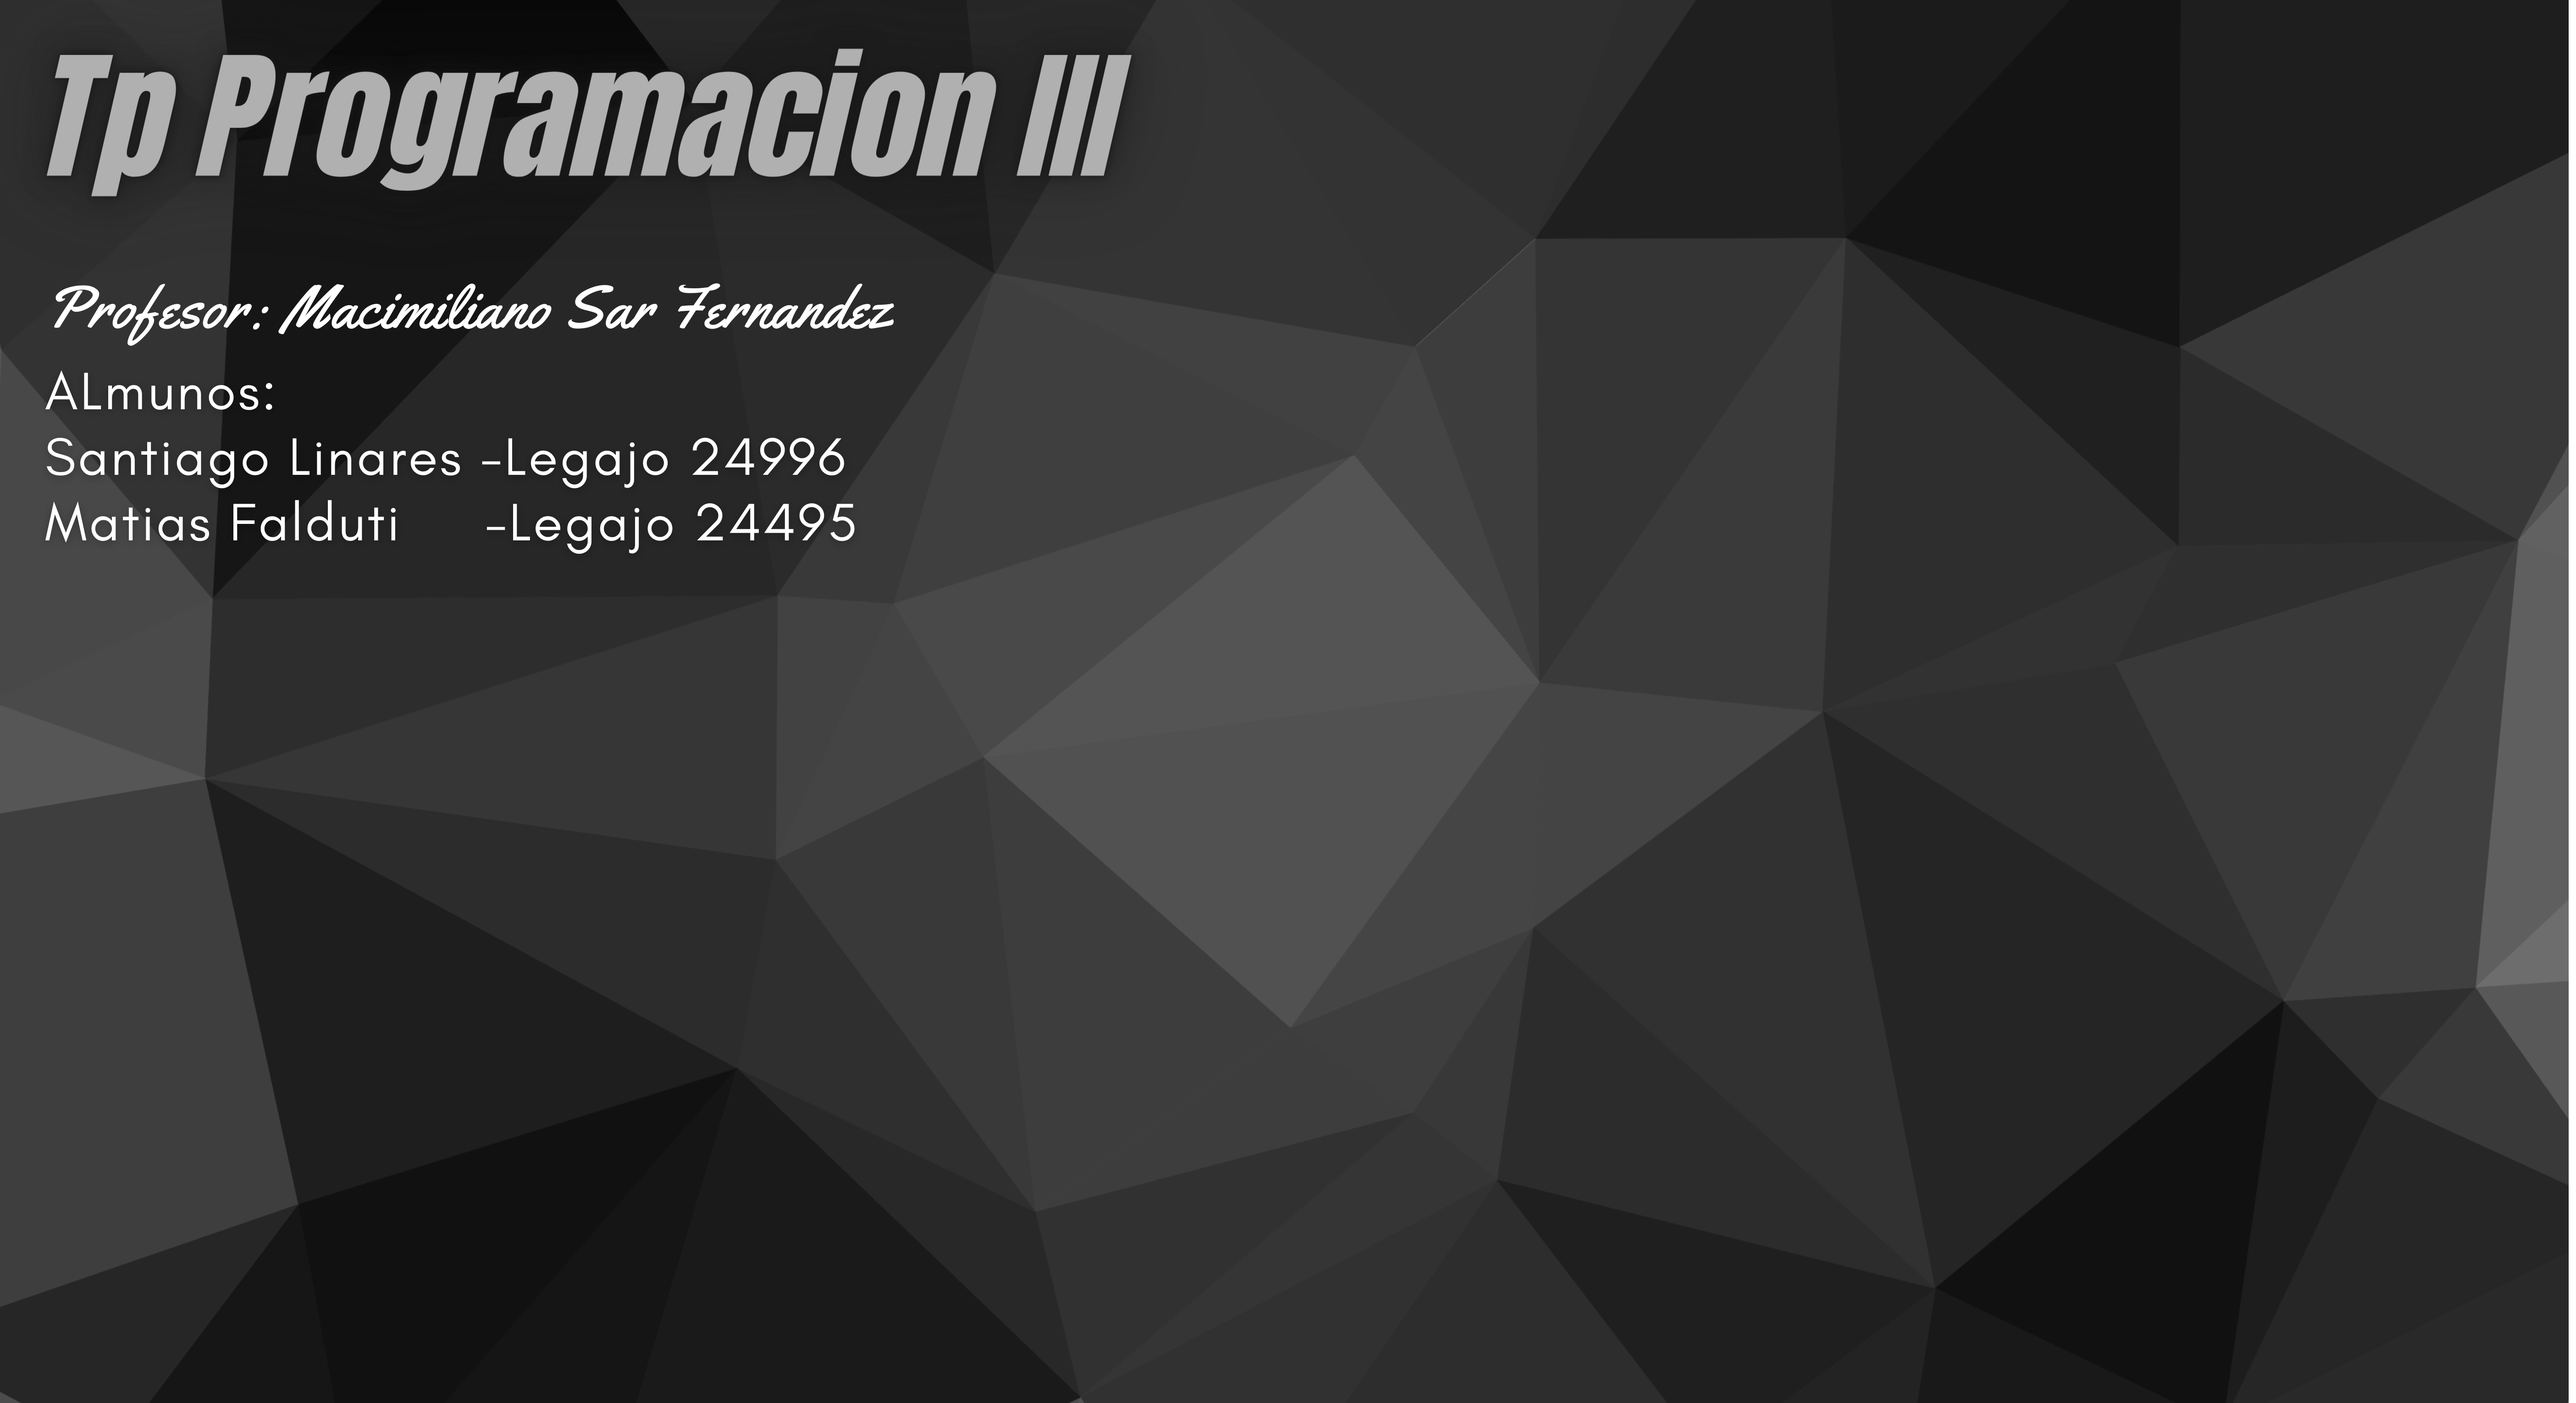
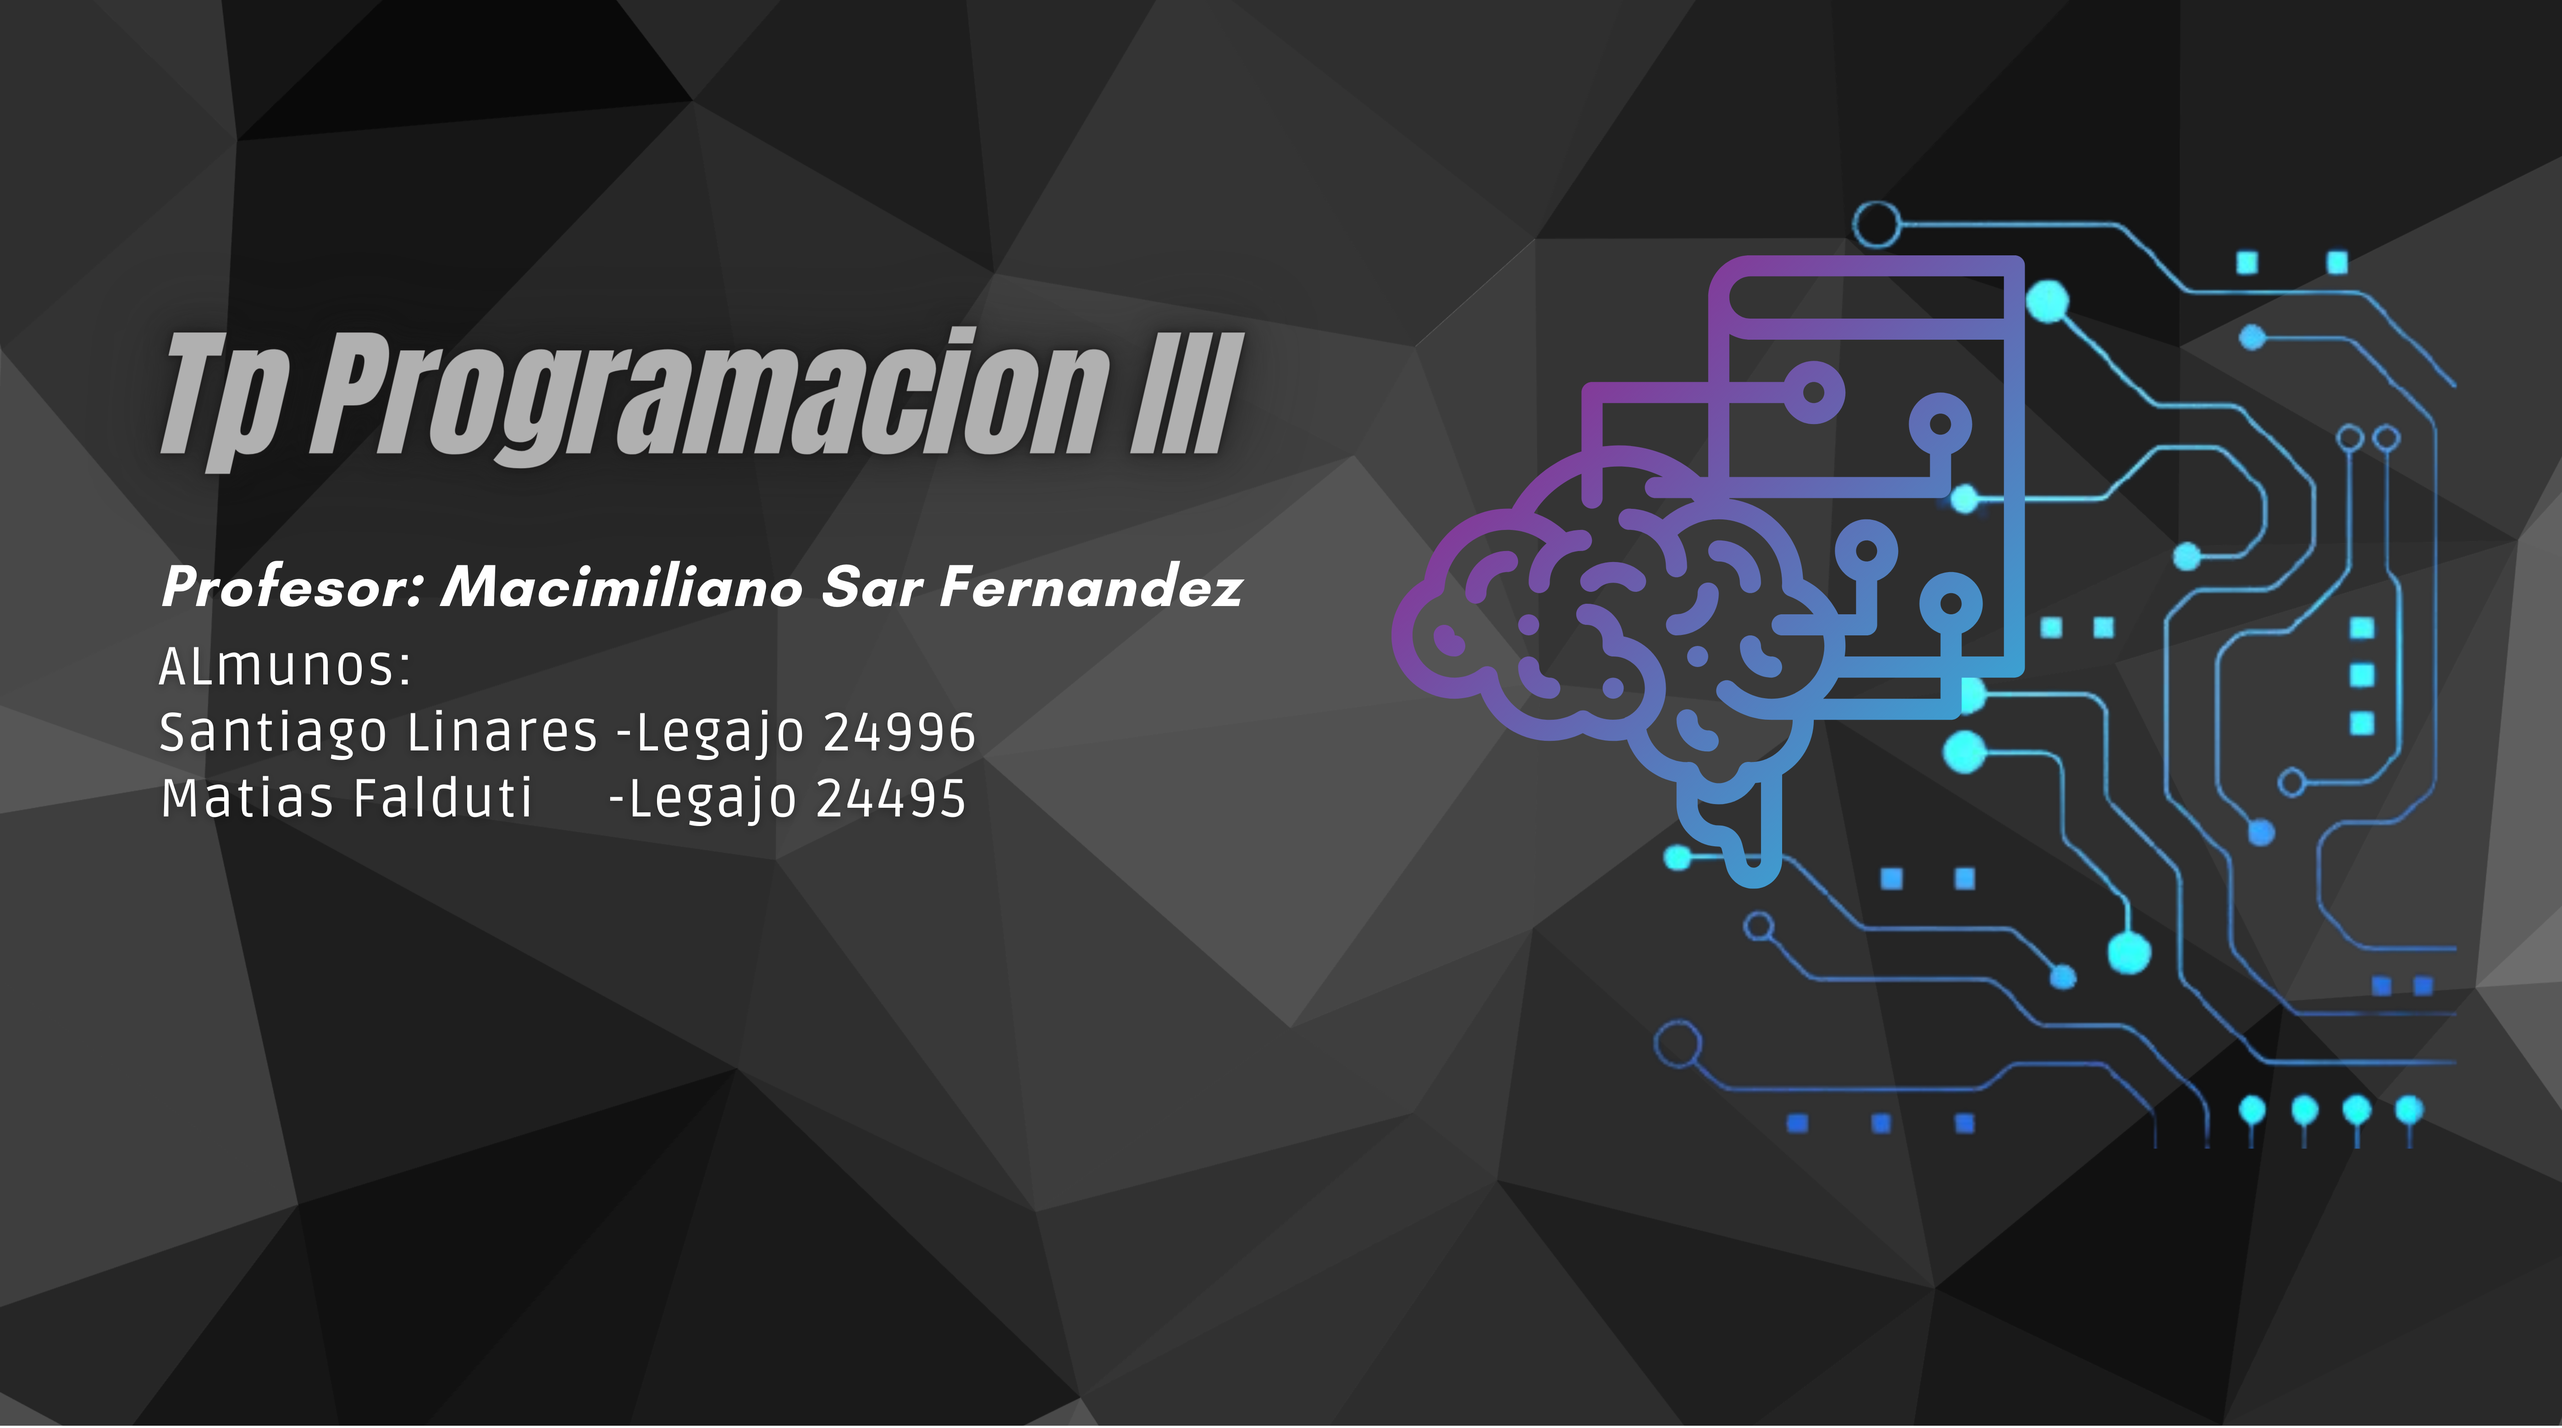
Inicio2

diff --git a/TPWIinForm_Linares_Falduri/Inicio.Designer.cs b/TPWIinForm_Linares_Falduri/Inicio.Designer.cs
@@ -28,17 +28,73 @@
         /// </summary>
         private void InitializeComponent()
         {
+            this.components = new System.ComponentModel.Container();
             System.ComponentModel.ComponentResourceManager resources = new System.ComponentModel.ComponentResourceManager(typeof(Inicio));
+            this.label1 = new System.Windows.Forms.Label();
+            this.TextBoxNombre = new System.Windows.Forms.TextBox();
+            this.BotonContinuar = new System.Windows.Forms.Button();
+            this.BotonSalir = new System.Windows.Forms.Button();
+            this.errorProvider1 = new System.Windows.Forms.ErrorProvider(this.components);
             this.pictureBox1 = new System.Windows.Forms.PictureBox();
+            ((System.ComponentModel.ISupportInitialize)(this.errorProvider1)).BeginInit();
             ((System.ComponentModel.ISupportInitialize)(this.pictureBox1)).BeginInit();
             this.SuspendLayout();
             // 
+            // label1
+            // 
+            this.label1.AutoSize = true;
+            this.label1.BackColor = System.Drawing.SystemColors.ControlLightLight;
+            this.label1.Font = new System.Drawing.Font("Times New Roman", 12F, System.Drawing.FontStyle.Regular, System.Drawing.GraphicsUnit.Point, ((byte)(0)));
+            this.label1.ForeColor = System.Drawing.Color.Blue;
+            this.label1.Location = new System.Drawing.Point(66, 325);
+            this.label1.Name = "label1";
+            this.label1.Size = new System.Drawing.Size(80, 22);
+            this.label1.TabIndex = 1;
+            this.label1.Text = "Nombre:";
+            // 
+            // TextBoxNombre
+            // 
+            this.TextBoxNombre.AcceptsReturn = true;
+            this.TextBoxNombre.Font = new System.Drawing.Font("Times New Roman", 10.2F, System.Drawing.FontStyle.Regular, System.Drawing.GraphicsUnit.Point, ((byte)(0)));
+            this.TextBoxNombre.Location = new System.Drawing.Point(152, 320);
+            this.TextBoxNombre.Name = "TextBoxNombre";
+            this.TextBoxNombre.Size = new System.Drawing.Size(194, 27);
+            this.TextBoxNombre.TabIndex = 2;
+            this.TextBoxNombre.TextChanged += new System.EventHandler(this.TextBoxNombre_TextChanged);
+            // 
+            // BotonContinuar
+            // 
+            this.BotonContinuar.BackColor = System.Drawing.SystemColors.Highlight;
+            this.BotonContinuar.Location = new System.Drawing.Point(198, 353);
+            this.BotonContinuar.Name = "BotonContinuar";
+            this.BotonContinuar.Size = new System.Drawing.Size(148, 50);
+            this.BotonContinuar.TabIndex = 3;
+            this.BotonContinuar.Text = "Continuar";
+            this.BotonContinuar.UseVisualStyleBackColor = false;
+            this.BotonContinuar.Click += new System.EventHandler(this.BotonContinuar_Click);
+            // 
+            // BotonSalir
+            // 
+            this.BotonSalir.BackColor = System.Drawing.Color.IndianRed;
+            this.BotonSalir.Location = new System.Drawing.Point(724, 426);
+            this.BotonSalir.Name = "BotonSalir";
+            this.BotonSalir.Size = new System.Drawing.Size(106, 41);
+            this.BotonSalir.TabIndex = 4;
+            this.BotonSalir.Text = "Salir";
+            this.BotonSalir.UseVisualStyleBackColor = false;
+            this.BotonSalir.Click += new System.EventHandler(this.BotonSalir_Click);
+            // 
+            // errorProvider1
+            // 
+            this.errorProvider1.ContainerControl = this;
+            // 
             // pictureBox1
             // 
-            this.pictureBox1.Image = global::TPWIinForm_Linares_Falduri.Properties.Resources.Inicio;
+            this.pictureBox1.BackColor = System.Drawing.SystemColors.ButtonShadow;
+            this.pictureBox1.Image = global::TPWIinForm_Linares_Falduri.Properties.Resources._1;
             this.pictureBox1.Location = new System.Drawing.Point(-1, -2);
             this.pictureBox1.Name = "pictureBox1";
-            this.pictureBox1.Size = new System.Drawing.Size(590, 360);
+            this.pictureBox1.Size = new System.Drawing.Size(840, 498);
             this.pictureBox1.SizeMode = System.Windows.Forms.PictureBoxSizeMode.Zoom;
             this.pictureBox1.TabIndex = 0;
             this.pictureBox1.TabStop = false;
@@ -47,22 +103,35 @@
             // 
             this.AutoScaleDimensions = new System.Drawing.SizeF(8F, 16F);
             this.AutoScaleMode = System.Windows.Forms.AutoScaleMode.Font;
-            this.BackColor = System.Drawing.SystemColors.ActiveCaption;
-            this.ClientSize = new System.Drawing.Size(855, 354);
+            this.BackColor = System.Drawing.SystemColors.InactiveCaptionText;
+            this.ClientSize = new System.Drawing.Size(842, 495);
+            this.Controls.Add(this.BotonSalir);
+            this.Controls.Add(this.BotonContinuar);
+            this.Controls.Add(this.TextBoxNombre);
+            this.Controls.Add(this.label1);
             this.Controls.Add(this.pictureBox1);
-            this.ForeColor = System.Drawing.SystemColors.ActiveCaption;
+            this.ForeColor = System.Drawing.SystemColors.ActiveCaptionText;
+            this.FormBorderStyle = System.Windows.Forms.FormBorderStyle.FixedSingle;
             this.Icon = ((System.Drawing.Icon)(resources.GetObject("$this.Icon")));
+            this.MaximizeBox = false;
             this.Name = "Inicio";
             this.Text = "Inicio";
-            this.Load += new System.EventHandler(this.Form1_Load);
+            this.Load += new System.EventHandler(this.Inicio_Load);
+            ((System.ComponentModel.ISupportInitialize)(this.errorProvider1)).EndInit();
             ((System.ComponentModel.ISupportInitialize)(this.pictureBox1)).EndInit();
             this.ResumeLayout(false);
+            this.PerformLayout();
 
         }
 
         #endregion
 
         private System.Windows.Forms.PictureBox pictureBox1;
+        private System.Windows.Forms.Label label1;
+        private System.Windows.Forms.TextBox TextBoxNombre;
+        private System.Windows.Forms.Button BotonContinuar;
+        private System.Windows.Forms.Button BotonSalir;
+        private System.Windows.Forms.ErrorProvider errorProvider1;
     }
 }
 

diff --git a/TPWIinForm_Linares_Falduri/PaginaPrincipal.Designer.cs b/TPWIinForm_Linares_Falduri/PaginaPrincipal.Designer.cs
@@ -1,0 +1,65 @@
+namespace TPWIinForm_Linares_Falduri
+{
+    partial class PaginaPrincipal
+    {
+        /// <summary>
+        /// Required designer variable.
+        /// </summary>
+        private System.ComponentModel.IContainer components = null;
+
+        /// <summary>
+        /// Clean up any resources being used.
+        /// </summary>
+        /// <param name="disposing">true if managed resources should be disposed; otherwise, false.</param>
+        protected override void Dispose(bool disposing)
+        {
+            if (disposing && (components != null))
+            {
+                components.Dispose();
+            }
+            base.Dispose(disposing);
+        }
+
+        #region Windows Form Designer generated code
+
+        /// <summary>
+        /// Required method for Designer support - do not modify
+        /// the contents of this method with the code editor.
+        /// </summary>
+        private void InitializeComponent()
+        {
+            this.LevelSaludo = new System.Windows.Forms.Label();
+            this.SuspendLayout();
+            // 
+            // LevelSaludo
+            // 
+            this.LevelSaludo.AutoSize = true;
+            this.LevelSaludo.Font = new System.Drawing.Font("Times New Roman", 12F, System.Drawing.FontStyle.Regular, System.Drawing.GraphicsUnit.Point, ((byte)(0)));
+            this.LevelSaludo.Location = new System.Drawing.Point(69, 42);
+            this.LevelSaludo.Name = "LevelSaludo";
+            this.LevelSaludo.Size = new System.Drawing.Size(102, 22);
+            this.LevelSaludo.TabIndex = 0;
+            this.LevelSaludo.Text = "Bievenido, ";
+            // 
+            // PaginaPrincipal
+            // 
+            this.AutoScaleDimensions = new System.Drawing.SizeF(8F, 16F);
+            this.AutoScaleMode = System.Windows.Forms.AutoScaleMode.Font;
+            this.BackColor = System.Drawing.SystemColors.ActiveCaption;
+            this.ClientSize = new System.Drawing.Size(800, 450);
+            this.Controls.Add(this.LevelSaludo);
+            this.FormBorderStyle = System.Windows.Forms.FormBorderStyle.FixedSingle;
+            this.MaximizeBox = false;
+            this.Name = "PaginaPrincipal";
+            this.Text = "Pagina Principal";
+            this.Load += new System.EventHandler(this.PaginaPrincipal_Load);
+            this.ResumeLayout(false);
+            this.PerformLayout();
+
+        }
+
+        #endregion
+
+        private System.Windows.Forms.Label LevelSaludo;
+    }
+}

diff --git a/TPWIinForm_Linares_Falduri/Inicio.cs b/TPWIinForm_Linares_Falduri/Inicio.cs
@@ -17,9 +17,44 @@ namespace TPWIinForm_Linares_Falduri
             InitializeComponent();
         }
 
-        private void Form1_Load(object sender, EventArgs e)
+        private void Inicio_Load(object sender, EventArgs e)
         {
+            BotonContinuar.Enabled = false;
+        }
 
+        private void BotonSalir_Click(object sender, EventArgs e)
+        {
+            this.Close();   
+        }
+
+
+        private void ControlBotones()
+        {
+            if (TextBoxNombre.Text.Trim() != string.Empty && TextBoxNombre.Text.All(char.IsLetter))
+            {
+               BotonContinuar.Enabled = true;
+                errorProvider1.SetError(TextBoxNombre, "");
+            }
+            else
+            {
+                if (!(TextBoxNombre.Text.All(char.IsLetter)))
+                {
+                    errorProvider1.SetError(TextBoxNombre, "El nombre solo contiene letras");
+                }
+                else { errorProvider1.SetError(TextBoxNombre, "Debe introducir su nombre"); }
+            }
+            //btnSolicitarPrestamo.Enabled = false;
+            TextBoxNombre.Focus();
+        }
+        private void TextBoxNombre_TextChanged(object sender, EventArgs e)
+        {
+            ControlBotones();
+        }
+
+        private void BotonContinuar_Click(object sender, EventArgs e)
+        {
+            using (PaginaPrincipal VentanaPrincipal = new PaginaPrincipal(TextBoxNombre.Text))
+                VentanaPrincipal.ShowDialog();
         }
     }
 }

diff --git a/TPWIinForm_Linares_Falduri/Properties/Resources.Designer.cs b/TPWIinForm_Linares_Falduri/Properties/Resources.Designer.cs
@@ -63,6 +63,16 @@ namespace TPWIinForm_Linares_Falduri.Properties {
         /// <summary>
         ///   Busca un recurso adaptado de tipo System.Drawing.Bitmap.
         /// </summary>
+        internal static System.Drawing.Bitmap _1 {
+            get {
+                object obj = ResourceManager.GetObject("_1", resourceCulture);
+                return ((System.Drawing.Bitmap)(obj));
+            }
+        }
+        
+        /// <summary>
+        ///   Busca un recurso adaptado de tipo System.Drawing.Bitmap.
+        /// </summary>
         internal static System.Drawing.Bitmap Inicio {
             get {
                 object obj = ResourceManager.GetObject("Inicio", resourceCulture);

diff --git a/TPWIinForm_Linares_Falduri/PaginaPrincipal.cs b/TPWIinForm_Linares_Falduri/PaginaPrincipal.cs
@@ -1,0 +1,27 @@
+using System;
+using System.Collections.Generic;
+using System.ComponentModel;
+using System.Data;
+using System.Drawing;
+using System.Linq;
+using System.Text;
+using System.Threading.Tasks;
+using System.Windows.Forms;
+
+namespace TPWIinForm_Linares_Falduri
+{
+    public partial class PaginaPrincipal : Form
+    {
+        string Nombre_Usuario;
+        public PaginaPrincipal(string Nombre)
+        {
+            InitializeComponent();
+            Nombre_Usuario = Nombre;
+        }
+
+        private void PaginaPrincipal_Load(object sender, EventArgs e)
+        {
+            LevelSaludo.Text += Nombre_Usuario;
+        }
+    }
+}
